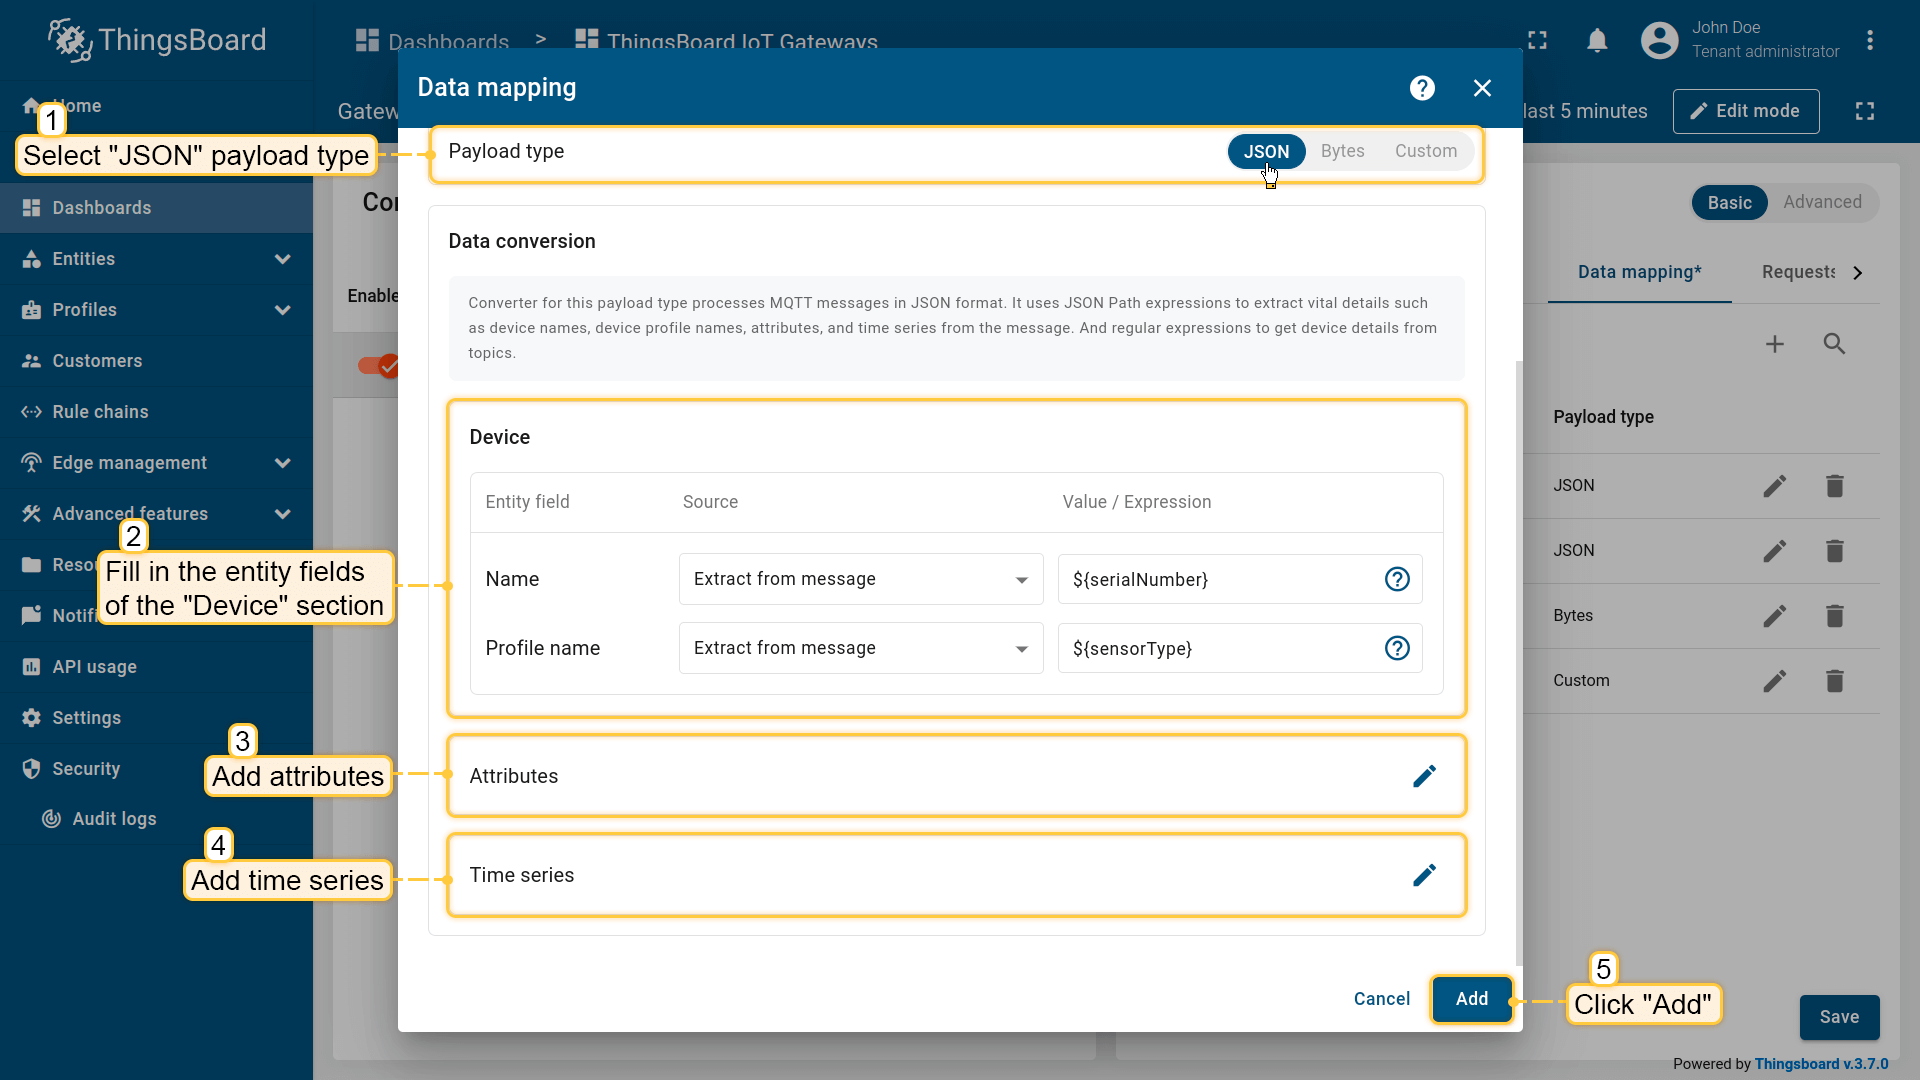
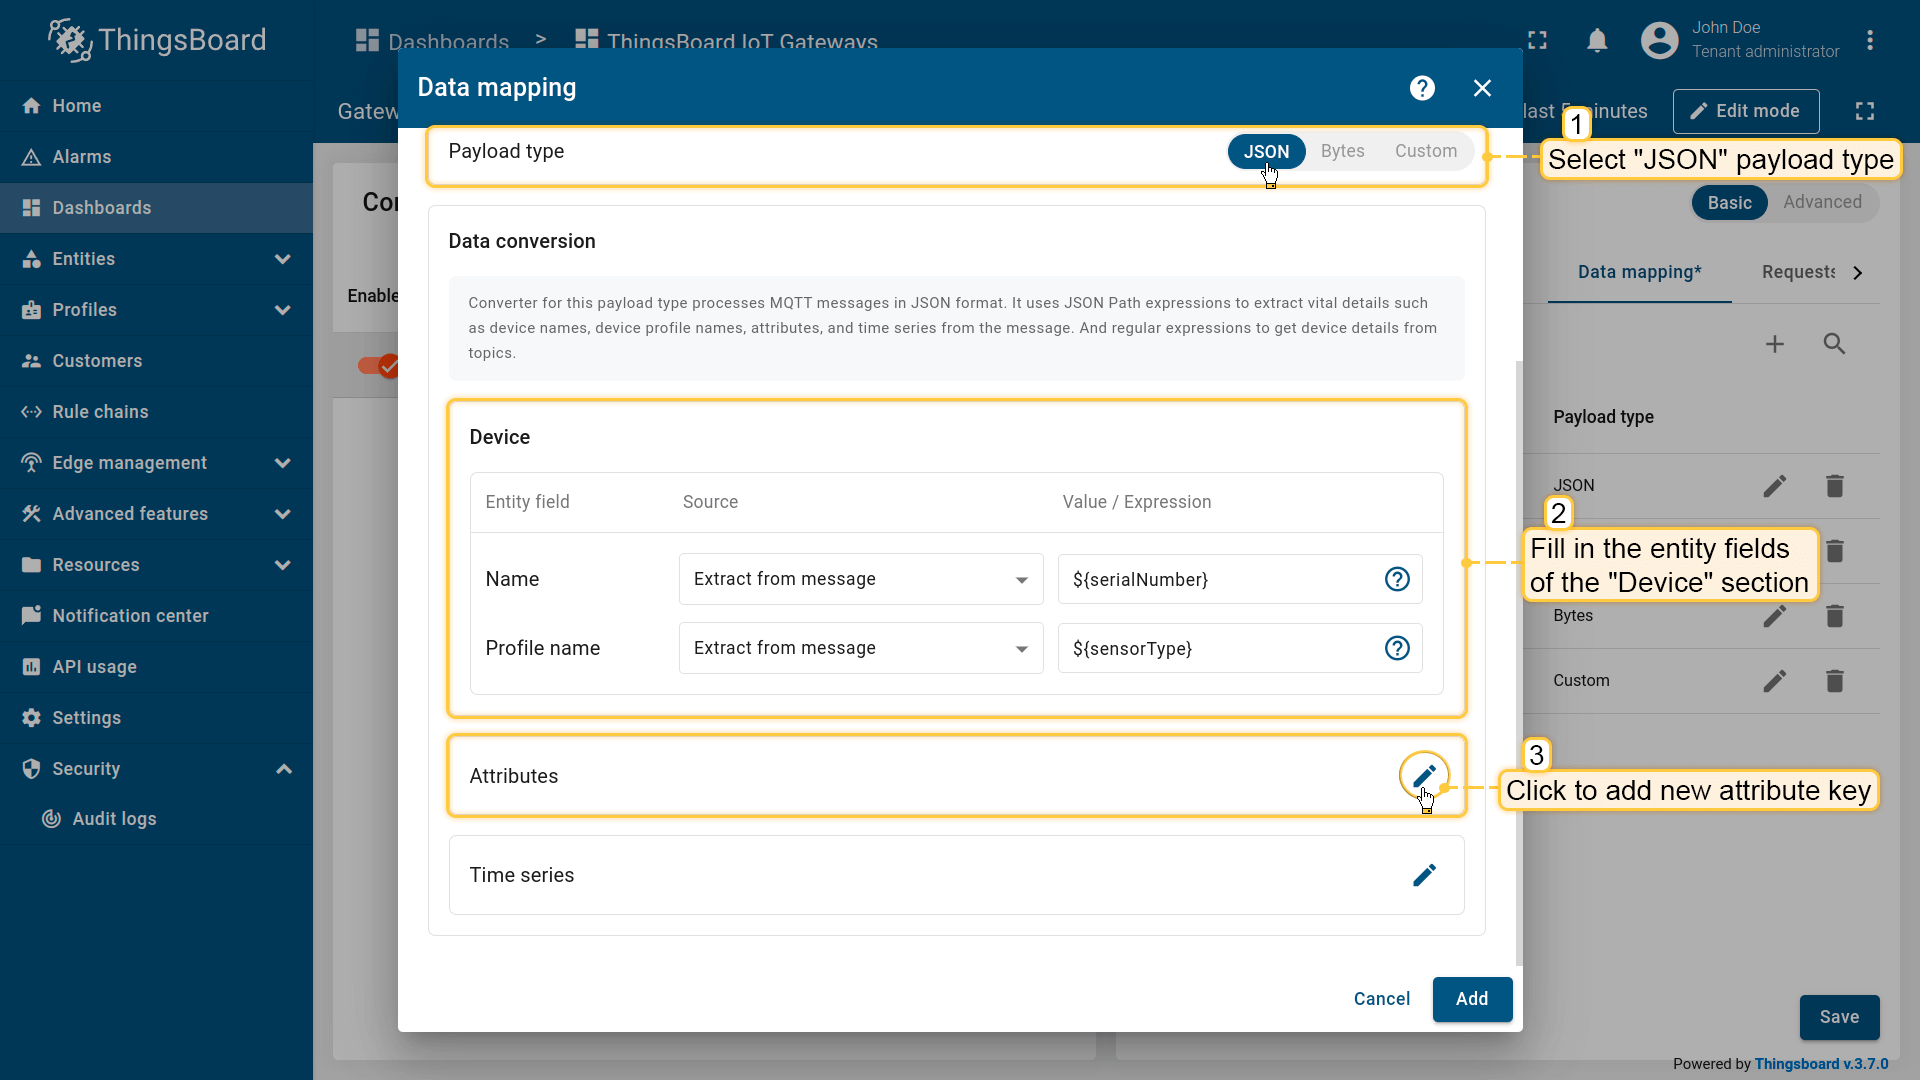
Updated screenshots

diff --git a/_includes/templates/iot-gateway/mqtt-connector/data-conversion-subsection-json.md b/_includes/templates/iot-gateway/mqtt-connector/data-conversion-subsection-json.md
@@ -2,4 +2,23 @@ Converter for this payload type processes MQTT messages in JSON format.
 It uses JSON Path expressions to extract vital details such as device names, device profile names, attributes, and time series from the message. 
 And regular expressions to get device details from topics.
 
-![image](/images/gateway/mqtt-connector/data-conversion-basic-json-subsection-1-ce.png)
+{% assign dataConversionBasicJsonSubsection = '
+    ===
+        image: /images/gateway/mqtt-connector/data-conversion-basic-json-subsection-1-ce.png,
+        title: Select "JSON" payload type, and fill in the fields in the "Device" section. Then click "pencil" icon of the "Attributes" section to add new attribute key;
+    ===
+        image: /images/gateway/mqtt-connector/data-conversion-basic-json-subsection-2-ce.png,
+        title: In the opened window click "Add attribute". Enter the key name, select the type and enter the value of the key. Click "Apply";
+    ===
+        image: /images/gateway/mqtt-connector/data-conversion-basic-json-subsection-3-ce.png,
+        title: Now click on the "pencil" icon of the "Time series" section to add new time series key;
+    ===
+        image: /images/gateway/mqtt-connector/data-conversion-basic-json-subsection-4-ce.png,
+        title: In the opened window click "Add time series". Enter the key name, select the type and enter the value of the key. Click "Apply";
+    ===
+        image: /images/gateway/mqtt-connector/data-conversion-basic-json-subsection-5-ce.png,
+        title: Click "Add".
+'
+%}
+
+{% include images-gallery.liquid showListImageTitles="true" imageCollection=dataConversionBasicJsonSubsection %}

diff --git a/_includes/templates/iot-gateway/mqtt-connector/data-conversion-subsection-bytes.md b/_includes/templates/iot-gateway/mqtt-connector/data-conversion-subsection-bytes.md
@@ -1,3 +1,22 @@
 Converter for this payload type designed for binary MQTT payloads, this converter directly interprets binary data to retrieve device names and device profile names, along with attributes and time series, using specific byte positions for data extraction.
 
-![image](/images/gateway/mqtt-connector/data-conversion-basic-bytes-subsection-1-ce.png)
+{% assign dataConversionBasicBytesSubsection = '
+    ===
+        image: /images/gateway/mqtt-connector/data-conversion-basic-bytes-subsection-1-ce.png,
+        title: Select "Bytes" payload type, and fill in the fields in the "Device" section. Then click "pencil" icon of the "Attributes" section to add new attribute key;
+    ===
+        image: /images/gateway/mqtt-connector/data-conversion-basic-bytes-subsection-2-ce.png,
+        title: In the opened window click "Add attribute". Enter the key name, select the type and enter the value of the key. Click "Apply";
+    ===
+        image: /images/gateway/mqtt-connector/data-conversion-basic-bytes-subsection-3-ce.png,
+        title: Now click on the "pencil" icon of the "Time series" section to add new time series key;
+    ===
+        image: /images/gateway/mqtt-connector/data-conversion-basic-bytes-subsection-4-ce.png,
+        title: In the opened window click "Add time series". Enter the key name, select the type and enter the value of the key. Click "Apply";
+    ===
+        image: /images/gateway/mqtt-connector/data-conversion-basic-bytes-subsection-5-ce.png,
+        title: Click "Add".
+'
+%}
+
+{% include images-gallery.liquid showListImageTitles="true" imageCollection=dataConversionBasicBytesSubsection %}

diff --git a/_includes/templates/iot-gateway/mqtt-connector/data-conversion-subsection-custom.md b/_includes/templates/iot-gateway/mqtt-connector/data-conversion-subsection-custom.md
@@ -2,4 +2,17 @@ This option allows you to use a custom converter for specific data tasks.
 You need to add your custom converter to the extension folder and enter its class name in the UI settings. 
 Any keys you provide will be sent as configuration to your custom converter.
 
-![image](/images/gateway/mqtt-connector/data-conversion-basic-custom-subsection-1-ce.png)
+{% assign dataConversionBasicCustomSubsection = '
+    ===
+        image: /images/gateway/mqtt-connector/data-conversion-basic-custom-subsection-1-ce.png,
+        title: Select "Custom" payload type, and fill in the fields in the "Device" section. Then click "pencil" icon of the "Keys" section to add new key;
+    ===
+        image: /images/gateway/mqtt-connector/data-conversion-basic-custom-subsection-2-ce.png
+        title: In the opened window click "Add key". Enter the key name and its value. Click "Apply";
+    ===
+        image: /images/gateway/mqtt-connector/data-conversion-basic-custom-subsection-3-ce.png
+        title: Click "Add".
+'
+%}
+
+{% include images-gallery.liquid showListImageTitles="true" imageCollection=dataConversionBasicCustomSubsection %}
